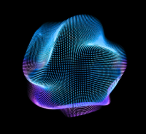
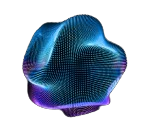
grid system

diff --git a/app/page.tsx b/app/page.tsx
@@ -117,8 +117,99 @@ export default function Home() {
                 engaging experiences that win loyalty.
               </p>
             </div>
+            <div className="l-ContentColumn">
+            <div className="main-container gap-5">
 
-            <div className="grid grid-cols-1 md:grid-cols-2 lg:grid-cols-3 gap-8 mb-12">
+              <div className="number-state bg-white/5 border border-white/10 p-8 rounded-20px">
+              <Image src={Gridone} className=""/>
+              <div className="text-center mt-5">
+                <span className="text-xl font-normal text-white">Standanrde</span>
+                <h5 className="uppercase text-40px font-bold text-white leading-snug">OS</h5>
+              </div>
+              </div>
+              <div className="number-state bg-white/5 border border-white/10 p-8 rounded-20px ">
+              <div className="flex justify-between items-center">
+                  <div className="relative">
+                  <h5 className="text-80px text-text-fifth font-bold leading-none">2.5x</h5>
+                  <span>Growth</span>
+                  </div>
+                  <div className="relative">
+                  <Image src={Gridthree} alt="gridthree"/>
+                  </div>
+                  </div>
+              </div>
+              <div className="number-state bg-white/5 border border-white/10 p-8 rounded-20px">
+              <div className="relative flex items-end gap-4">
+                  <h5 className="text-80px text-text-fifth font-bold leading-none">2.5x</h5>
+                  <span>Benefits for</span>
+                  </div>
+                  <div className="flex gap-5 mt-[114px]">
+                    <div className="bg-bg-second rounded-xl p-6 text-center">
+                      <div className="h-28">
+                      <Image src={Gridsix} alt="Gridsix" className="w-full h-full object-cover"/>
+                      </div>
+                      <h6 className="text-white text-xl font-medium">Store</h6>
+                    </div>
+                    <div className="bg-bg-second rounded-xl p-6 text-center">
+                    <div className="h-28">
+                      <Image src={Grideight} alt="Gridsix" className="w-full h-full object-cover"/>
+                      </div>
+                      <h6 className="text-white text-xl font-medium">Customer</h6>
+                    </div>
+                  </div>
+              </div>
+              <div className="number-state bg-white/5 border border-white/10 p-8number-state bg-white/5 border border-white/10 p-8 rounded-20px align-super flex-wrap rounded-20px flex flex-wrap justify-between">
+              <div className="relative text-center w-full">
+                  <h5 className="text-52px text-text-fifth font-bold leading-3.25rem">New</h5>
+                  <span>Eco system</span>
+                  </div>
+                  <Image src={Gridtwo} alt="gridtwo" className="w-full object-cover"/>
+                 
+              </div>
+              <div className="number-state bg-white/5 border border-white/10 p-0 rounded-20px overflow-hidden">
+              <div className="relative w-full h-full">
+                  <Image src={Gridfour} alt="public-shop" className="w-full h-full object-cover"/>
+                </div>
+                </div>
+              <div className="number-state bg-white/5 pb-0 border border-white/10 p-8 rounded-20px align-super flex-wrap">
+              <div className="relative block w-full"><h5>Foot fall</h5></div>
+              <div className="relative w-full ml-2">
+              <Image  src={Gridfive} alt="Gridfive" className="ml-auto"/>
+              </div>
+              </div>
+              <div className="number-state bg-white/5 border border-white/10 p-8 rounded-20px flex  flex-wrap ">
+              <div className="relative block w-full max-w-40 "><h5>Unified segment accross platforms.</h5></div>
+              <div className="flex items-center  w-full justify-end"><div className="w-6 h-6 rounded-full bg-red-600"></div></div>
+              </div>
+            
+            </div>
+            </div>
+            {/* <div className="flex">
+              <div className="w-1/4 px-4">
+                <div className="bg-white/5 border border-white/10 p-8 rounded-20px mb-5">
+                <div className="relative mx-auto text-center">
+                  <Image src={Gridone} alt="gridone" className="mx-auto mix-blend-screen"/>
+                  <div className="mt-5 leading-10">
+                    <span className="block text-white text-xl font-normal">Standanrde</span>
+                    <h5 className="uppercase text-40px font-bold">OS</h5>
+                  </div>
+                  </div>
+                  </div>
+                  <div className="bg-white/5 border border-white/10 p-8 rounded-20px">
+                <div className="relative mx-auto text-center">
+                <div className="relative mb-5">
+                    <span className="block text-[#505051] text-5xl font-bold">New</span>
+                    <h5 className="uppercase text-xl font-normal">Eco system</h5>
+                  </div>
+
+                  <Image src={Gridtwo} alt="gridone" className="mx-auto mix-blend-screen"/>
+
+                  </div>
+                  </div>
+              </div>
+              <div className="w-3/4 px-4"></div>
+            </div> */}
+            {/* <div className="grid grid-cols-1 md:grid-cols-2 lg:grid-cols-3 gap-8 mb-12">
               <div className="flex items-center space-x-4">
                 <Image src={osLogo} alt="OS" className="w-16 h-16" />
                 <div>
@@ -135,7 +226,7 @@ export default function Home() {
                   <p className="text-gray-400">Benefits for</p>
                 </div>
               </div>
-            </div>
+            </div> */}
             {/* <div className="grid grid-cols-1 md:grid-cols-2 gap-8 mb-12">
               <div>
                 <h3 className="text-xl font-bold mb-4">Standards</h3>
@@ -184,7 +275,7 @@ export default function Home() {
             </h2>
             <Slider {...productSliderSettings}>
               <div className="w-1/3 px-2">
-                <div className="bg-card-bg p-8 pb-0 rounded-32px">
+                <div className="bg-card-bg p-8 pb-0 rounded-32px max-h-560px">
                   <div className="flex items-center justify-between">
                     <div className="relative">
                       <span className="uppercase text-base font-normal block">
@@ -208,12 +299,12 @@ export default function Home() {
                     </div>
                   </div>
                   <div className="relative mt-16">
-                    <Image src={ProductSlideImage1} alt="ProductSlide" />
+                    <Image src={ProductSlideImage1} alt="ProductSlide" className="mx-auto w-full" />
                   </div>
                 </div>
               </div>
               <div className="w-1/3 px-2">
-                <div className="bg-card-bg p-8 pb-0 rounded-32px">
+                <div className="bg-card-bg p-8 pb-0 rounded-32px max-h-560px">
                   <div className="flex items-center justify-between">
                     <div className="relative">
                       <span className="uppercase text-base font-normal block">
@@ -237,12 +328,12 @@ export default function Home() {
                     </div>
                   </div>
                   <div className="relative mt-16">
-                    <Image src={ProductSlideImage2} alt="ProductSlide" />
+                    <Image src={ProductSlideImage2} alt="ProductSlide" className="mx-auto w-full" />
                   </div>
                 </div>
               </div>
               <div className="w-1/3 px-2">
-                <div className="bg-card-bg p-8 pb-0 rounded-32px">
+                <div className="bg-card-bg p-8 pb-0 rounded-32px max-h-560px">
                   <div className="flex items-center justify-between">
                     <div className="relative">
                       <span className="uppercase text-base font-normal block">
@@ -266,12 +357,12 @@ export default function Home() {
                     </div>
                   </div>
                   <div className="relative mt-16">
-                    <Image src={ProductSlideImage1} alt="ProductSlide" />
+                    <Image src={ProductSlideImage1} alt="ProductSlide" className="mx-auto w-full" />
                   </div>
                 </div>
               </div>
               <div className="w-1/3 px-2">
-                <div className="bg-card-bg p-8 pb-0 rounded-32px">
+                <div className="bg-card-bg p-8 pb-0 rounded-32px max-h-560px">
                   <div className="flex items-center justify-between">
                     <div className="relative">
                       <span className="uppercase text-base font-normal block">
@@ -295,7 +386,7 @@ export default function Home() {
                     </div>
                   </div>
                   <div className="relative mt-16">
-                    <Image src={ProductSlideImage4} alt="ProductSlide" />
+                    <Image src={ProductSlideImage4} alt="ProductSlide" className="mx-auto w-full" />
                   </div>
                 </div>
               </div>

diff --git a/app/globals.css b/app/globals.css
@@ -82,3 +82,86 @@ body {
   grid-area: label6;
   
 }
+
+.l-ContentColumn {
+  width: 100%;
+  max-width: 1125px;
+  margin: 0 auto;
+  /* margin-top: -125px; */
+}
+.main-container {
+  display: grid;
+  width: 100%;
+  position: relative;
+  padding-bottom: 10vh;
+  padding: 0px;
+  grid-template-columns: 18% 14% 14% 12% 25%;
+}
+.number-state:nth-of-type(1) {
+  grid-column: 1 / 2;
+  grid-row: 1 / 10;
+  -ms-grid-column: 4;
+  -ms-grid-row: 1;
+  -ms-grid-row-span: 1;
+  -ms-grid-column-span: 1;
+  display: flex;
+  flex-direction: column;
+  align-items: center;
+  overflow: hidden;
+}
+.number-state:nth-of-type(2) {
+  grid-column: 5 / 2;
+  grid-row: 1 / 9;
+  -ms-grid-column: 5;
+  -ms-grid-row: 1;
+  -ms-grid-row-span: 1;
+  -ms-grid-column-span: 1;
+  flex-direction: column;
+  overflow: hidden;
+}
+.number-state:nth-of-type(3) {
+  grid-column: 5 / 7;
+  grid-row: 1 / 11;
+  -ms-grid-column: 6;
+  -ms-grid-row: 1;
+  -ms-grid-row-span: 1;
+  -ms-grid-column-span: 1;
+  margin-right: 0;
+}
+.number-state:nth-of-type(4) {
+  grid-column: 1 / 2;
+  grid-row: 10 / 21;
+  -ms-grid-column: 6;
+  -ms-grid-row: 1;
+  -ms-grid-row-span: 1;
+  -ms-grid-column-span: 1;
+  margin-right: 0;
+}
+.number-state:nth-of-type(5) {
+  grid-column: 2 / 5;
+  grid-row: 9 / 11;
+  -ms-grid-column: 6;
+  -ms-grid-row: 1;
+  -ms-grid-row-span: 1;
+  -ms-grid-column-span: 1;
+  margin-right: 0;
+}
+.number-state:nth-of-type(6) {
+  grid-column: 2 / 4;
+  grid-row: 21 / 11;
+  -ms-grid-column: 6;
+  -ms-grid-row: 1;
+  -ms-grid-row-span: 1;
+  -ms-grid-column-span: 1;
+  margin-right: 0;
+  display: flex;
+}
+.number-state:nth-of-type(7) {
+  grid-column: 4 / 7;
+  grid-row: 21 / 11;
+  -ms-grid-column: 6;
+  -ms-grid-row: 1;
+  -ms-grid-row-span: 1;
+  -ms-grid-column-span: 1;
+  margin-right: 0;
+}

diff --git a/tailwind.config.ts b/tailwind.config.ts
@@ -32,6 +32,7 @@ const config: Config = {
         "text-second": "#999999",
         "text-fourth": "#434343",
         "text-third": "#333333",
+        "text-fifth": "#505051",
         "footer-primary": "#EFEDFD",
         "btn-primary": "#320E5C",
         "card-primary": "#171718",
@@ -55,6 +56,7 @@ const config: Config = {
         "112px": "112px",
         "160px": "160px",
         "348px": "348px",
+        "560px": "560px",
         "580px": "580px",
         "100dvh": "100dvh",
         unset: "unset",
@@ -63,14 +65,18 @@ const config: Config = {
         0: "0",
         "28px": "28px",
         "40px": "40px",
+        "52px": "52px",
         "76px": "76px",
+        "80px": "80px",
         "32px": "32px",
         unset: "unset",
       },
       lineHeight: {
         1: "1",
+        "1.25rem": "1.25rem", 
         "3.25rem": "3.25rem", 
         "79px": "79px",
+        
         unset: "unset",
         Normal: "normal",
       },
@@ -80,6 +86,7 @@ const config: Config = {
       },
       borderRadius: {
         '20px': '20px',
+        '32px': '32px',
         '40px': '40px',
       },
     },

diff --git a/components/Footer/Footer.tsx b/components/Footer/Footer.tsx
@@ -3,7 +3,7 @@ import React from "react";
 const Footer = () => {
   return (
     <footer className="text-white py-6">
-      <div className="container mx-auto px-4">
+      <div className="container mx-auto px-32">
         <div className="flex flex-col space-y-6 sm:space-y-0 sm:flex-row sm:justify-between sm:items-start">
           <div className="flex flex-col items-center sm:items-start space-y-8">
             <h2 className="text-2xl font-bold">STANDARDE</h2>
